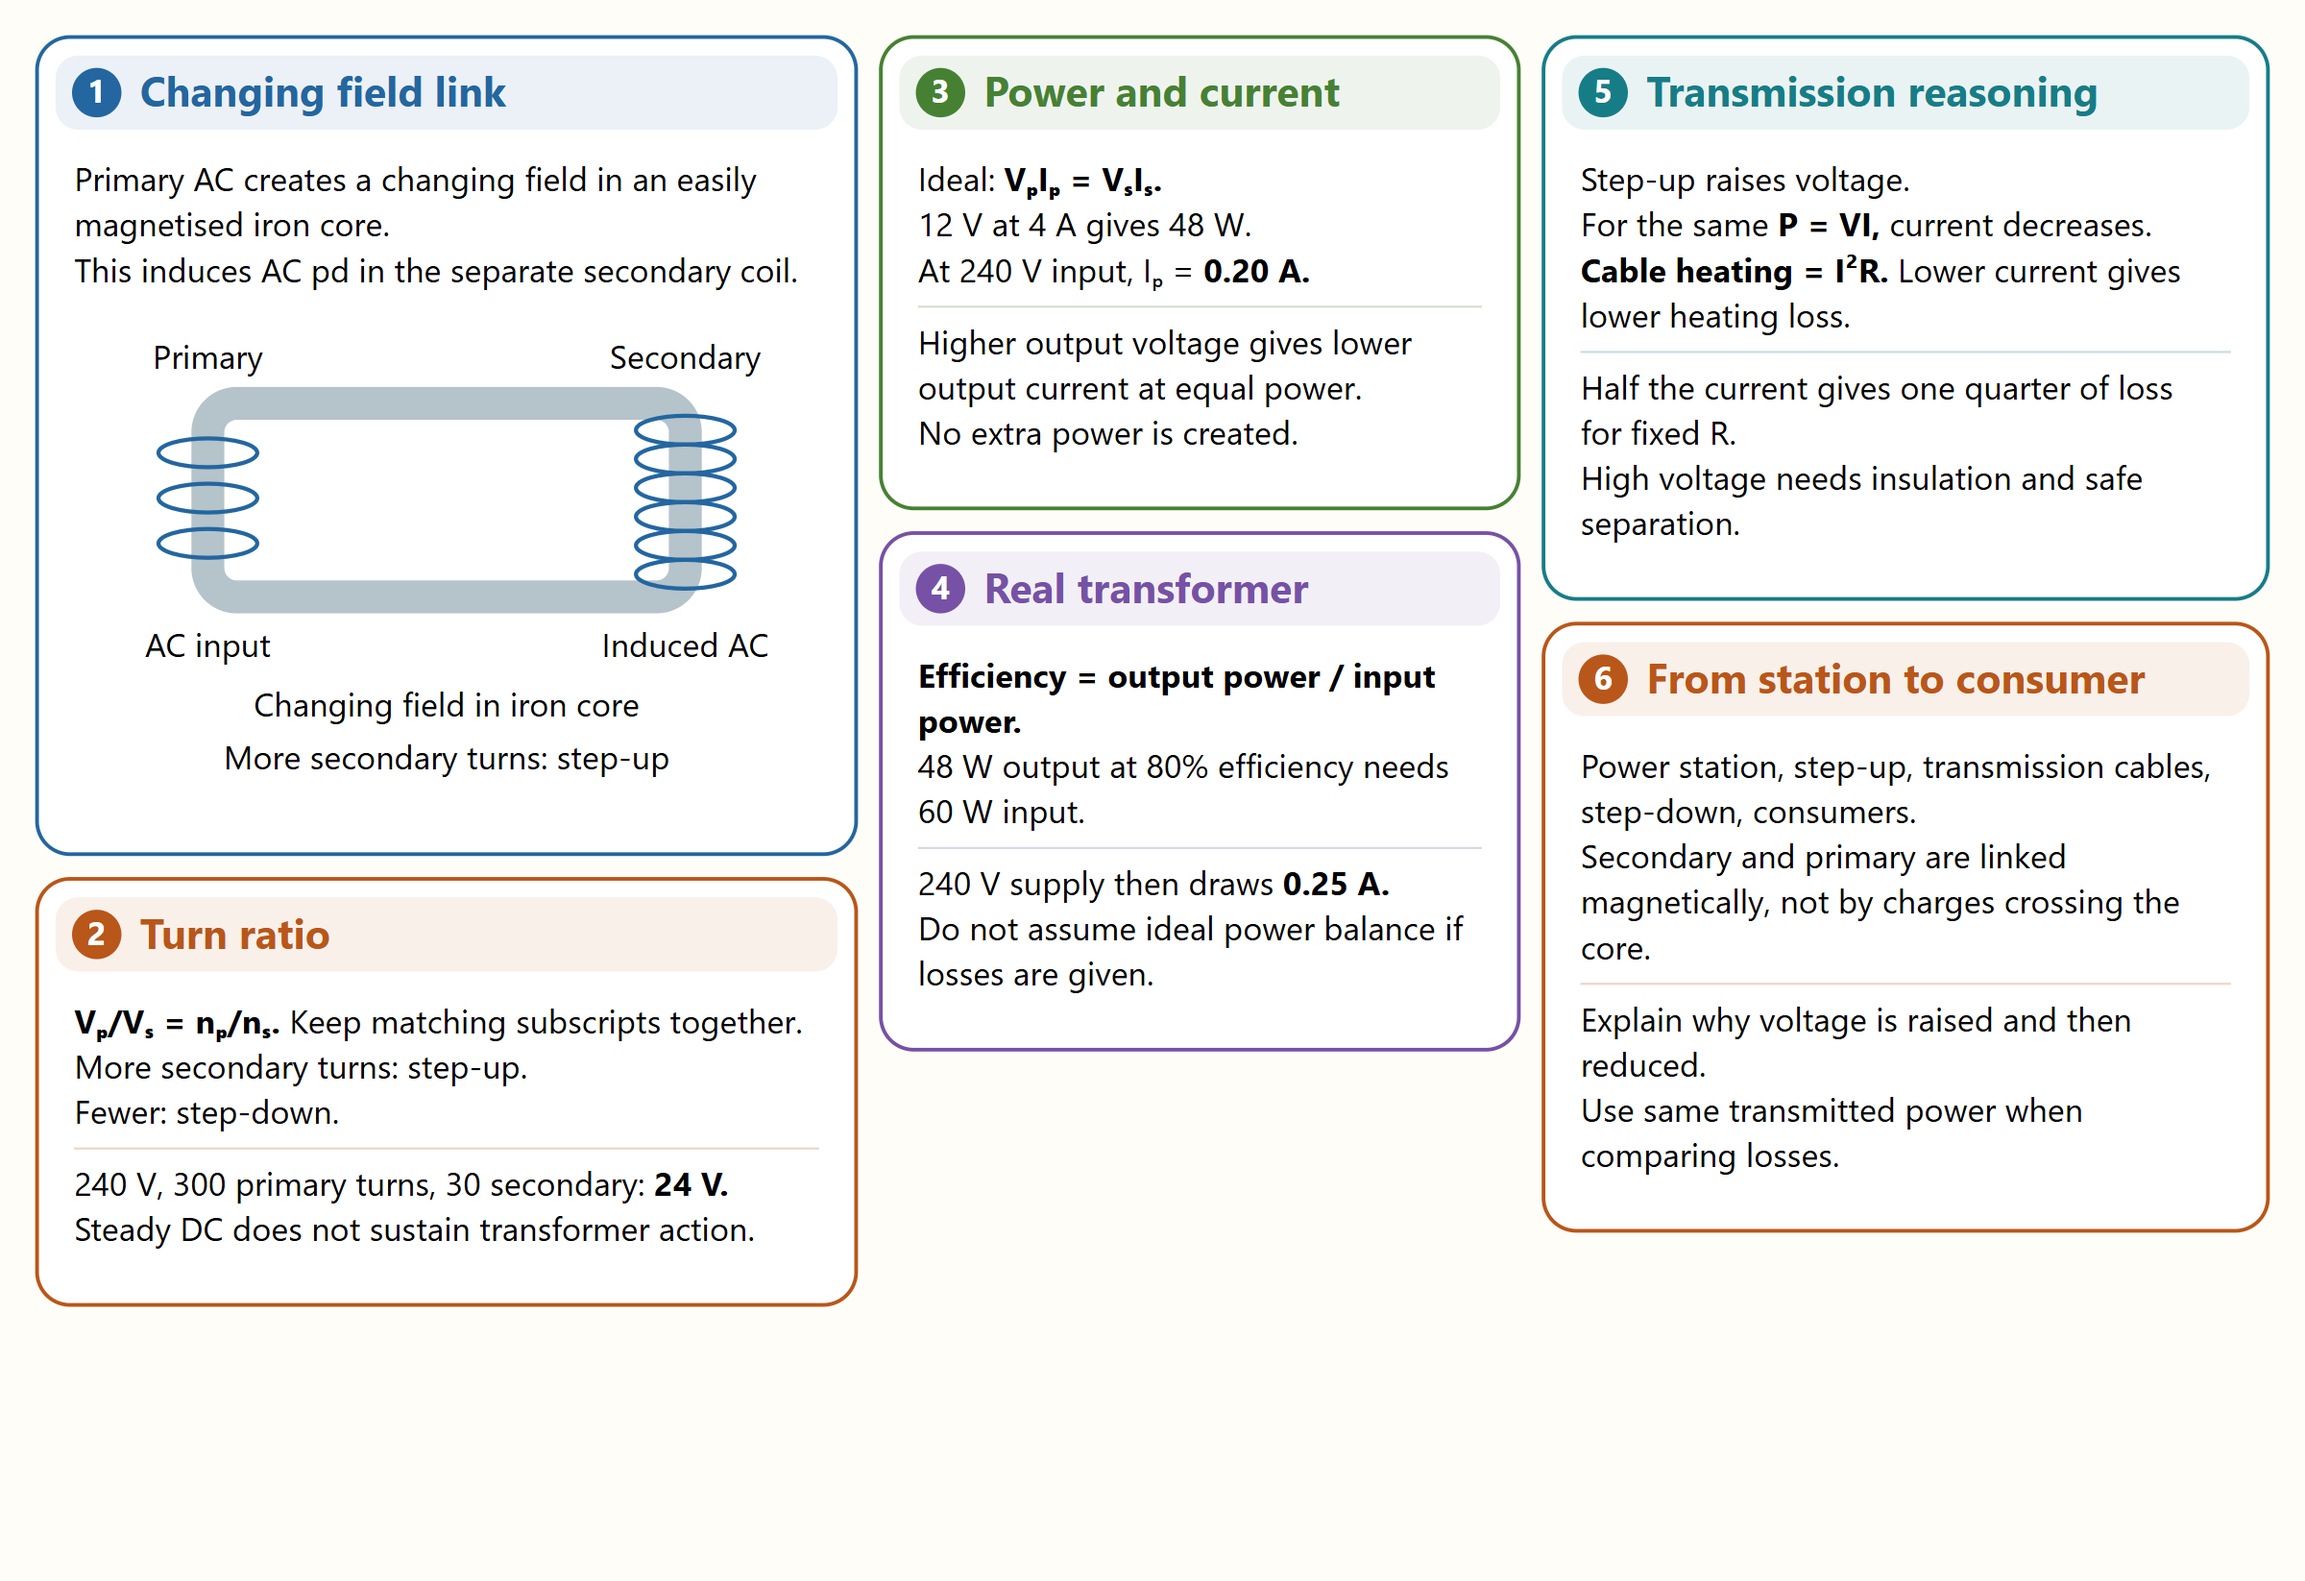
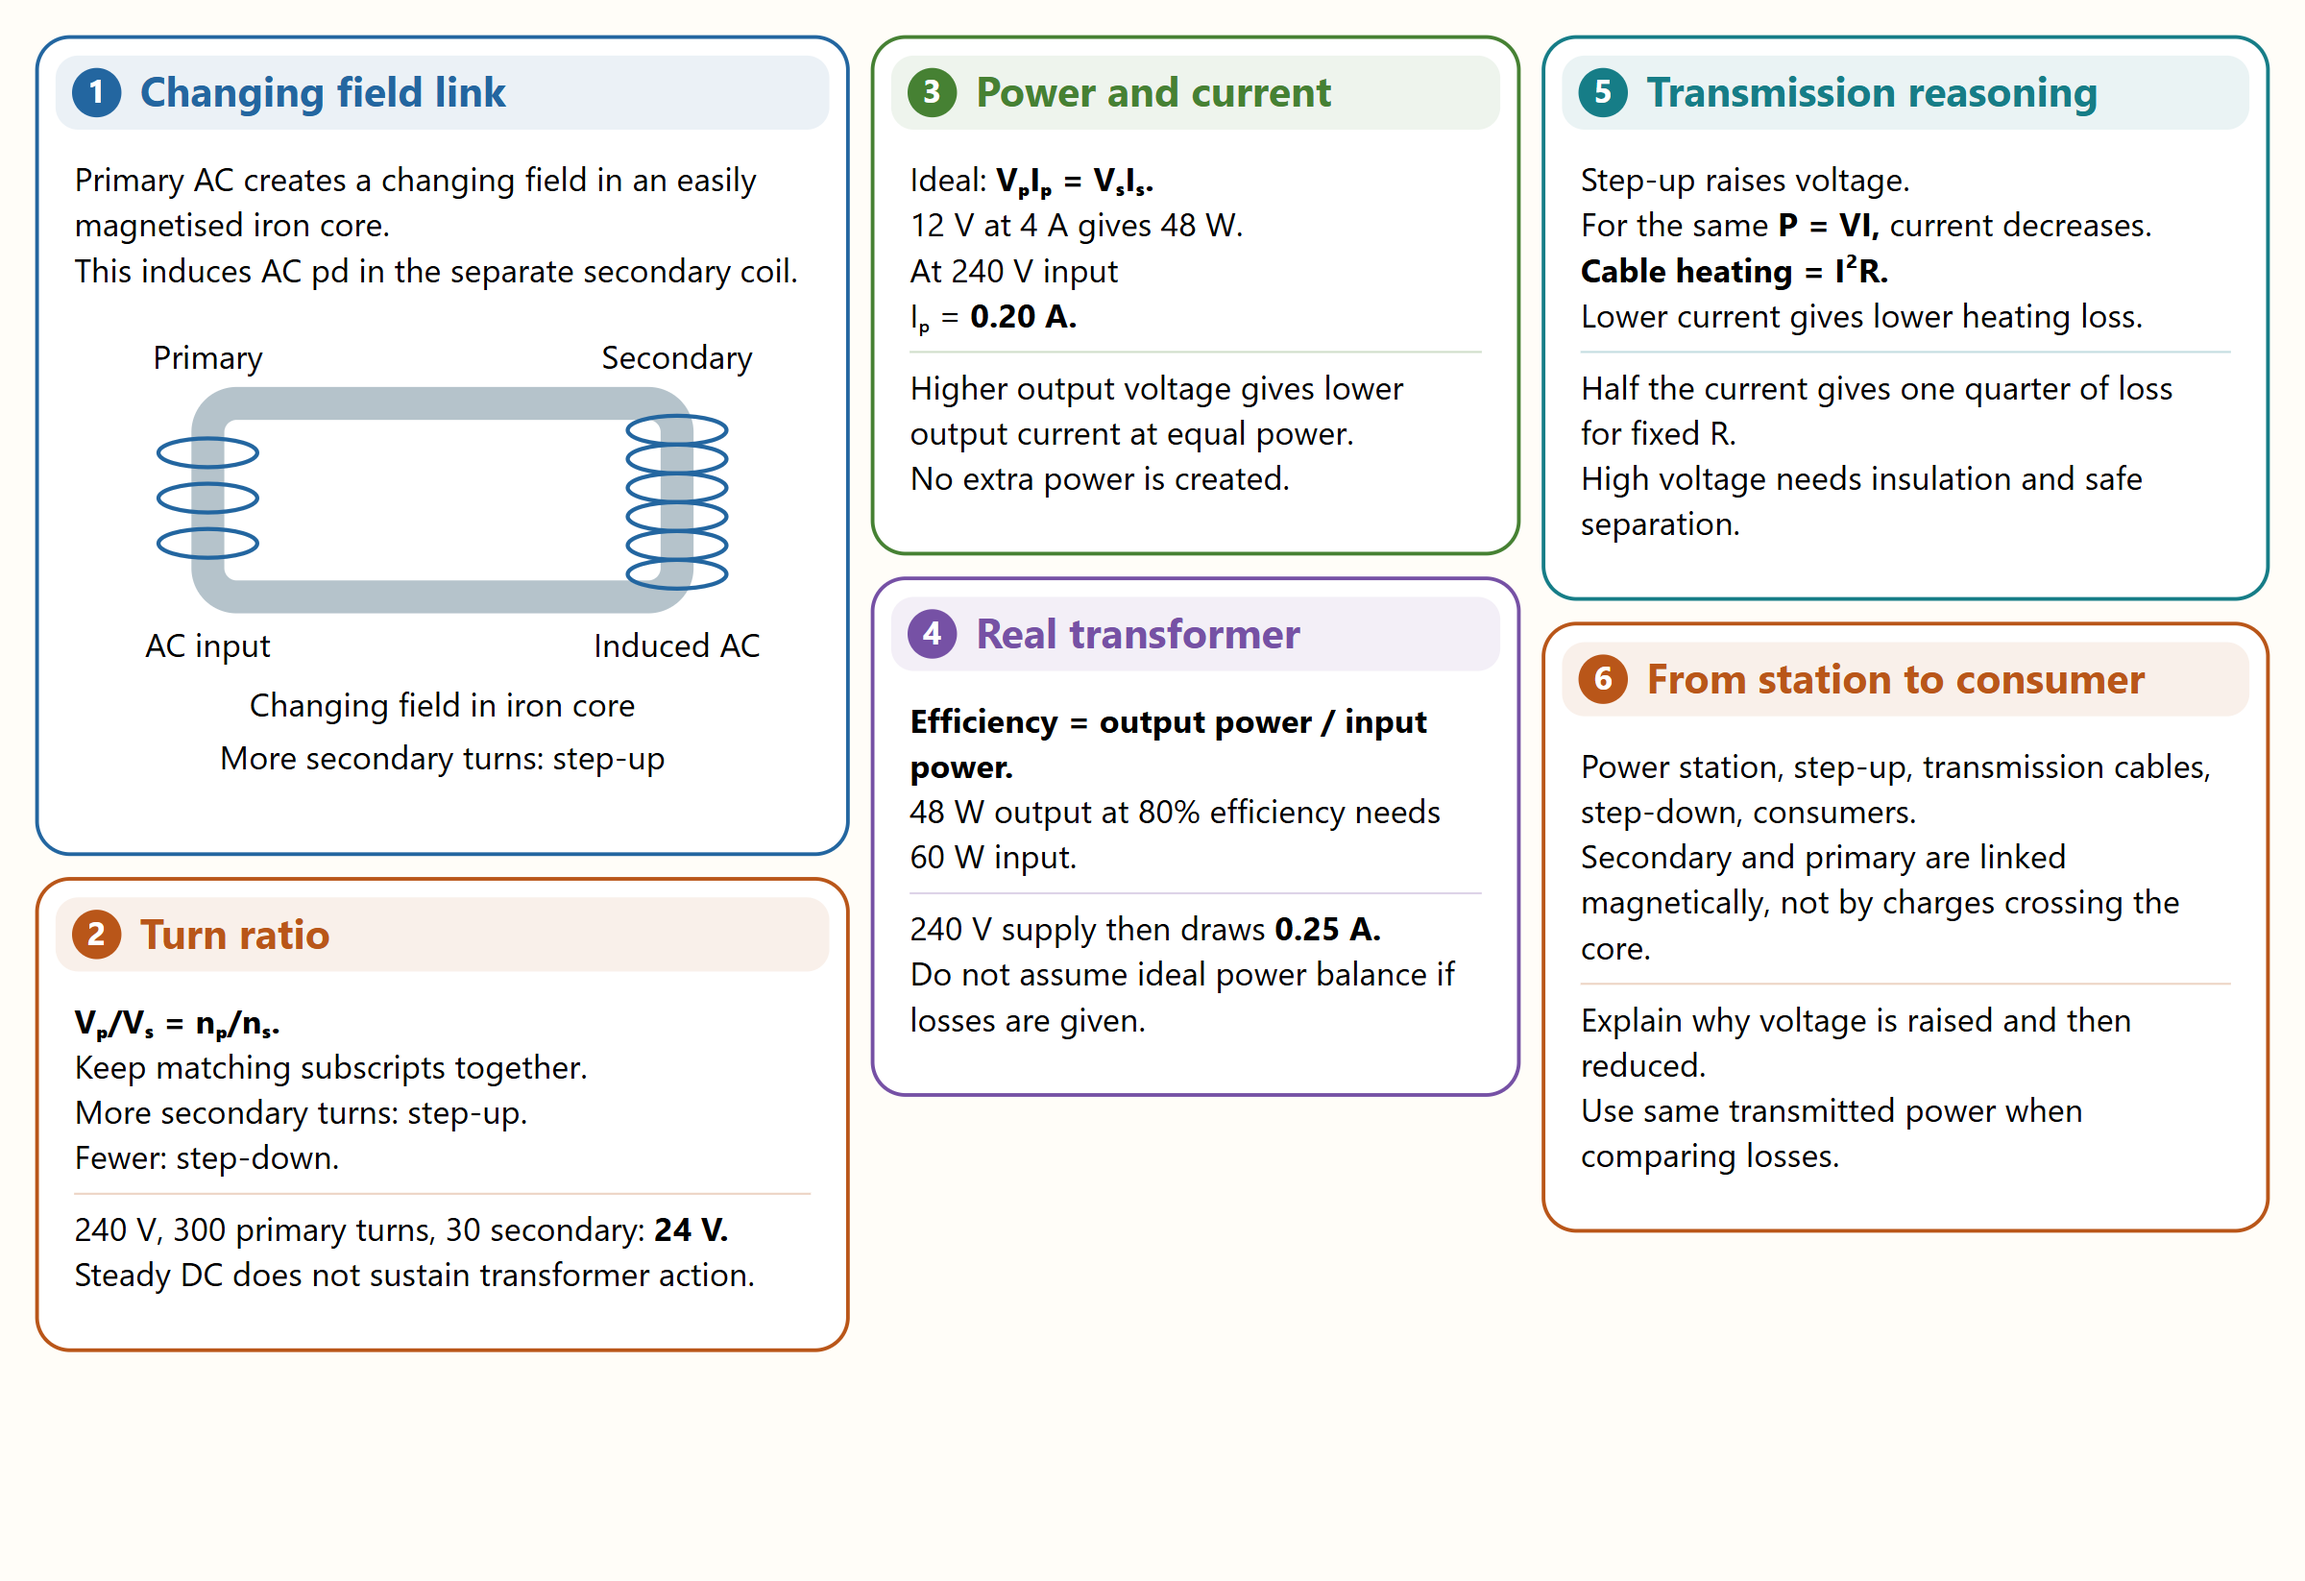
fix: review physics 07 mind-map equation layouts

Changed region(s): [[0.0, 0.031, 0.6562, 0.8366], [0.6875, 0.1549, 0.9375, 0.2169]]

diff --git a/library/resources/physics-aqa-magnetism-and-electromagnetism-04-transformers-and-grid.html b/library/resources/physics-aqa-magnetism-and-electromagnetism-04-transformers-and-grid.html
@@ -3,13 +3,16 @@
 <p>Primary AC creates a changing field in an easily magnetised iron core.</p>
 <p>This induces AC pd in the separate secondary coil.</p>
 <h2>Turn ratio</h2>
-<p><strong>Vₚ/Vₛ = nₚ/nₛ.</strong> Keep matching subscripts together.</p>
+<p><strong>Vₚ/Vₛ = nₚ/nₛ.</strong></p>
+<p>Keep matching subscripts together.</p>
 <p>More secondary turns: step-up. Fewer: step-down.</p>
 <p>240 V, 300 primary turns, 30 secondary: <strong>24 V</strong>.</p>
 <p>Steady DC does not sustain transformer action.</p>
 <h2>Power and current</h2>
 <p>Ideal: <strong>VₚIₚ = VₛIₛ</strong>.</p>
-<p>12 V at 4 A gives 48 W. At 240 V input, Iₚ = <strong>0.20 A</strong>.</p>
+<p>12 V at 4 A gives 48 W.</p>
+<p>At 240 V input</p>
+<p>Iₚ = <strong>0.20 A</strong>.</p>
 <p>Higher output voltage gives lower output current at equal power.</p>
 <p>No extra power is created.</p>
 <h2>Real transformer</h2>
@@ -18,8 +21,10 @@
 <p>240 V supply then draws <strong>0.25 A</strong>.</p>
 <p>Do not assume ideal power balance if losses are given.</p>
 <h2>Transmission reasoning</h2>
-<p>Step-up raises voltage. For the same <strong>P = VI</strong>, current decreases.</p>
-<p><strong>Cable heating = I²R.</strong> Lower current gives lower heating loss.</p>
+<p>Step-up raises voltage.</p>
+<p>For the same <strong>P = VI</strong>, current decreases.</p>
+<p><strong>Cable heating = I²R.</strong></p>
+<p>Lower current gives lower heating loss.</p>
 <p>Half the current gives one quarter of loss for fixed R.</p>
 <p>High voltage needs insulation and safe separation.</p>
 <h2>From station to consumer</h2>

diff --git a/library/resources/physics-aqa-magnetism-and-electromagnetism-00-magnetism-overview.html b/library/resources/physics-aqa-magnetism-and-electromagnetism-00-magnetism-overview.html
@@ -10,7 +10,8 @@
 <p>Reverse current to reverse poles.</p>
 <h2>The motor effect</h2>
 <p>Current in a field gives force perpendicular to both.</p>
-<p><strong>F = BIl</strong> for a perpendicular wire. Units: N, T, A, m.</p>
+<p><strong>F = BIl</strong> for a perpendicular wire.</p>
+<p>Units: N, T, A, m.</p>
 <p>Left hand: field, current, force.</p>
 <p>Motor and speaker use this effect.</p>
 <h2>The generator effect</h2>

diff --git a/Physics - AQA/07 - Magnetism and electromagnetism/Mind Maps/04-transformers-and-grid.md b/Physics - AQA/07 - Magnetism and electromagnetism/Mind Maps/04-transformers-and-grid.md
@@ -8,7 +8,9 @@ This induces AC pd in the separate secondary coil.
 
 ## Turn ratio
 
-**Vₚ/Vₛ = nₚ/nₛ.** Keep matching subscripts together.
+**Vₚ/Vₛ = nₚ/nₛ.**
+
+Keep matching subscripts together.
 
 More secondary turns: step-up. Fewer: step-down.
 
@@ -20,7 +22,11 @@ Steady DC does not sustain transformer action.
 
 Ideal: **VₚIₚ = VₛIₛ**.
 
-12 V at 4 A gives 48 W. At 240 V input, Iₚ = **0.20 A**.
+12 V at 4 A gives 48 W.
+
+At 240 V input
+
+Iₚ = **0.20 A**.
 
 Higher output voltage gives lower output current at equal power.
 
@@ -38,9 +44,13 @@ Do not assume ideal power balance if losses are given.
 
 ## Transmission reasoning
 
-Step-up raises voltage. For the same **P = VI**, current decreases.
+Step-up raises voltage.
 
-**Cable heating = I²R.** Lower current gives lower heating loss.
+For the same **P = VI**, current decreases.
+
+**Cable heating = I²R.**
+
+Lower current gives lower heating loss.
 
 Half the current gives one quarter of loss for fixed R.
 

diff --git a/Physics - AQA/07 - Magnetism and electromagnetism/Mind Maps/00-magnetism-overview.md b/Physics - AQA/07 - Magnetism and electromagnetism/Mind Maps/00-magnetism-overview.md
@@ -22,7 +22,9 @@ Reverse current to reverse poles.
 
 Current in a field gives force perpendicular to both.
 
-**F = BIl** for a perpendicular wire. Units: N, T, A, m.
+**F = BIl** for a perpendicular wire.
+
+Units: N, T, A, m.
 
 Left hand: field, current, force.
 
